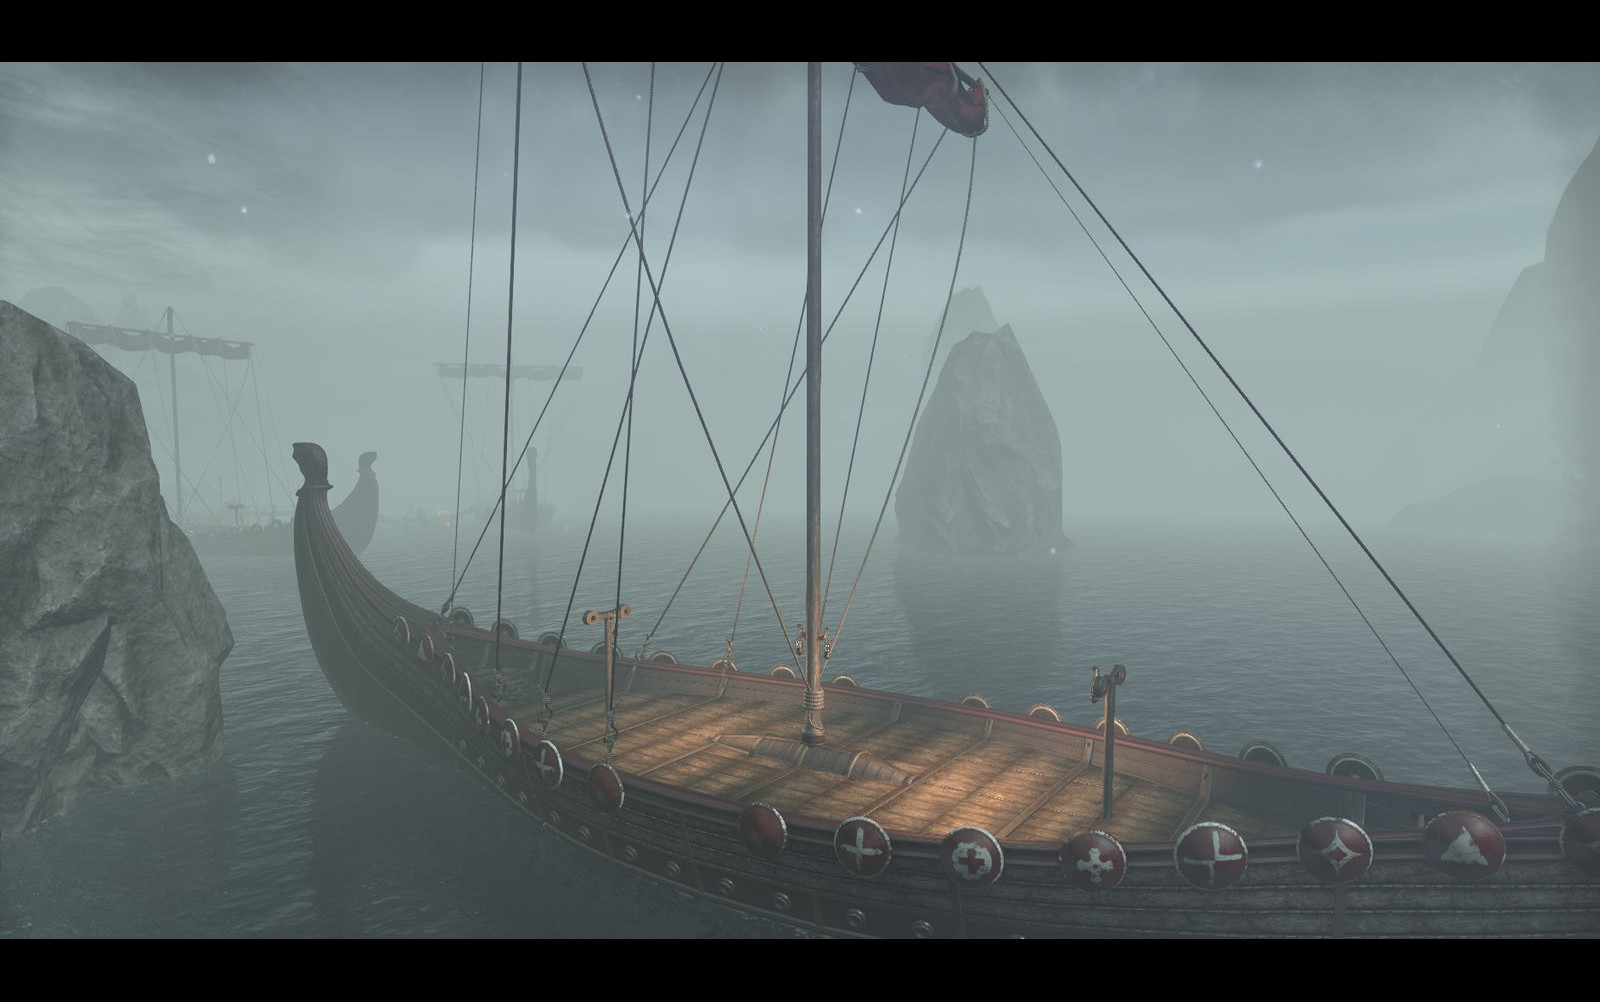
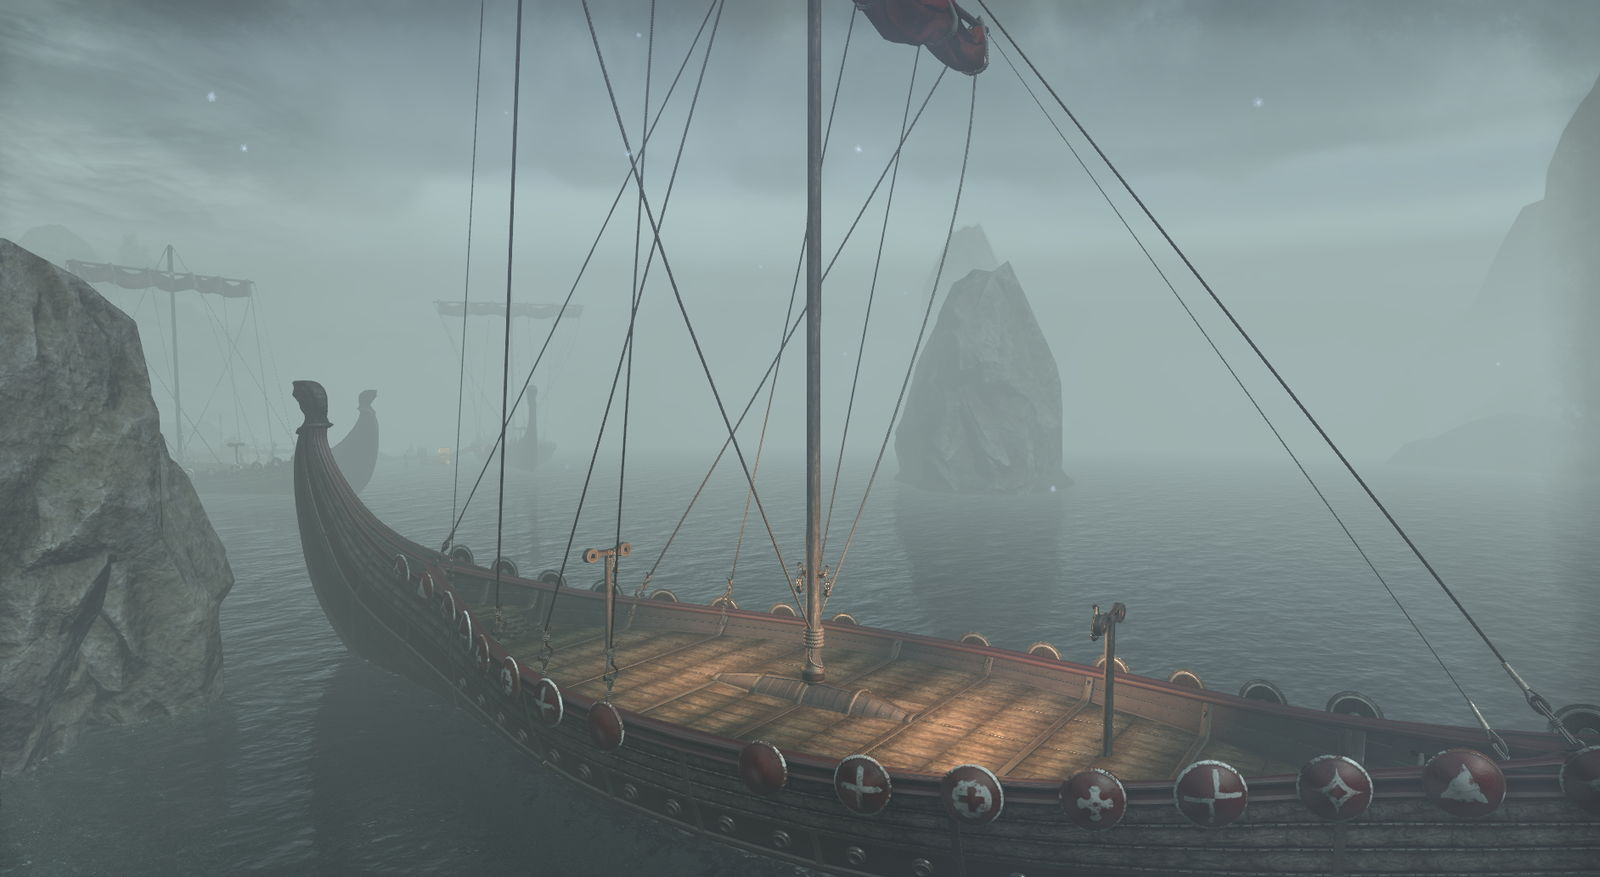
Alter images used for mobile

diff --git a/vhof_m.html b/vhof_m.html
@@ -207,7 +207,7 @@
 				<!-- Hunter Killers -->
 				<div>
 					<div class='row'>
-						<div class='col-xs-12 anchor'><img src="./images/vhof/hunter_killers.png" style="width:100%;"><div class='image-text-mobile'>Hunter Killers</div></div>
+						<div class='col-xs-12 anchor'><img src="./images/vhof/hunter_killers_m.png" style="width:100%;"><div class='image-text-mobile'>Hunter Killers</div></div>
 					</div>
 					<br />
 					<div class='row'>
@@ -261,7 +261,7 @@
 				<!-- Pinnacle Factotum -->
 				<div>
 					<div class='row'>
-						<div class='col-xs-12 anchor'><img src="./images/vhof/factotum.png" style="width:100%;"><div class='image-text-mobile'>Factotum</div></div>
+						<div class='col-xs-12 anchor'><img src="./images/vhof/factotum_m.png" style="width:100%;"><div class='image-text-mobile'>Factotum</div></div>
 					</div>
 					<br />
 					<div class='row'>
@@ -315,7 +315,7 @@
 				<!-- Archcustodian -->
 				<div>
 					<div class='row'>
-						<div class='col-xs-12 anchor'><img src="./images/vhof/archcustodian.png" style="width:100%;"><div class='image-text-mobile'>Archcustodian</div></div>
+						<div class='col-xs-12 anchor'><img src="./images/vhof/archcustodian_m.png" style="width:100%;"><div class='image-text-mobile'>Archcustodian</div></div>
 					</div>
 					<br />
 					<div class='row'>
@@ -369,7 +369,7 @@
 				<!-- Triplets -->
 				<div>
 					<div class='row'>
-						<div class='col-xs-12 anchor'><img src="./images/vhof/triplets.png" style="width:100%;"><div class='image-text-mobile'>Triplets</div></div>
+						<div class='col-xs-12 anchor'><img src="./images/vhof/triplets_m.png" style="width:100%;"><div class='image-text-mobile'>Triplets</div></div>
 					</div>
 					<br />
 					<div class='row'>
@@ -423,7 +423,7 @@
 				<!-- Assembly General -->
 				<div>
 					<div class='row'>
-						<div class='col-xs-12 anchor'><img src="./images/vhof/assembly_general.png" style="width:100%;"><div class='image-text-mobile'>AG</div></div>
+						<div class='col-xs-12 anchor'><img src="./images/vhof/assembly_general_m.png" style="width:100%;"><div class='image-text-mobile'>AG</div></div>
 					</div>
 					<br />
 					<div class='row'>

diff --git a/vka_m.html b/vka_m.html
@@ -204,7 +204,7 @@
 				<!-- Yandir the Butcher -->
 				<div>
 					<div class='row'>
-						<div class='col-xs-12 anchor'><img src="./images/vka/yandir.jpg" style="width:100%;"><div class='image-text-mobile'>Yandir</div></div>
+						<div class='col-xs-12 anchor'><img src="./images/vka/yandir_m.jpg" style="width:100%;"><div class='image-text-mobile'>Yandir</div></div>
 					</div>
 					<br />
 					<div class='row'>
@@ -258,7 +258,7 @@
 				<!-- Captain Vrol -->
 				<div>
 					<div class='row'>
-						<div class='col-xs-12 anchor'><img src="./images/vka/vrol.jpg" style="width:100%;"><div class='image-text-mobile'>Captain Vrol</div></div>
+						<div class='col-xs-12 anchor'><img src="./images/vka/vrol_m.jpg" style="width:100%;"><div class='image-text-mobile'>Captain Vrol</div></div>
 					</div>
 					<br />
 					<div class='row'>
@@ -312,7 +312,7 @@
 				<!-- Lord Falgravn -->
 				<div>
 					<div class='row'>
-						<div class='col-xs-12 anchor'><img src="./images/vka/falgravn.jpg" style="width:100%;"><div class='image-text-mobile'>Lord Falgravn</div></div>
+						<div class='col-xs-12 anchor'><img src="./images/vka/falgravn_m.jpg" style="width:100%;"><div class='image-text-mobile'>Lord Falgravn</div></div>
 					</div>
 					<br />
 					<div class='row'>

diff --git a/vss_m.html b/vss_m.html
@@ -204,7 +204,7 @@
 				<!-- Lokkie -->
 				<div>
 					<div class='row'>
-						<div class='col-xs-12 anchor'><img src="./images/vss/lokkie.png" style="width:100%;"><div class='image-text-mobile'>Lokkestiiz</div></div>
+						<div class='col-xs-12 anchor'><img src="./images/vss/lokkie_m.png" style="width:100%;"><div class='image-text-mobile'>Lokkestiiz</div></div>
 					</div>
 					<br />
 					<div class='row'>
@@ -258,7 +258,7 @@
 				<!-- Yolna -->
 				<div>
 					<div class='row'>
-						<div class='col-xs-12 anchor'><img src="./images/vss/yolna.jpg" style="width:100%;"><div class='image-text-mobile'>Yolnahkriin</div></div>
+						<div class='col-xs-12 anchor'><img src="./images/vss/yolna_m.jpg" style="width:100%;"><div class='image-text-mobile'>Yolnahkriin</div></div>
 					</div>
 					<br />
 					<div class='row'>
@@ -312,7 +312,7 @@
 				<!-- Nahvi -->
 				<div>
 					<div class='row'>
-						<div class='col-xs-12 anchor'><img src="./images/vss/nahvi.jpg" style="width:100%;"><div class='image-text-mobile'>Nahviintaas</div></div>
+						<div class='col-xs-12 anchor'><img src="./images/vss/nahvi_m.jpg" style="width:100%;"><div class='image-text-mobile'>Nahviintaas</div></div>
 					</div>
 					<br />
 					<div class='row'>
